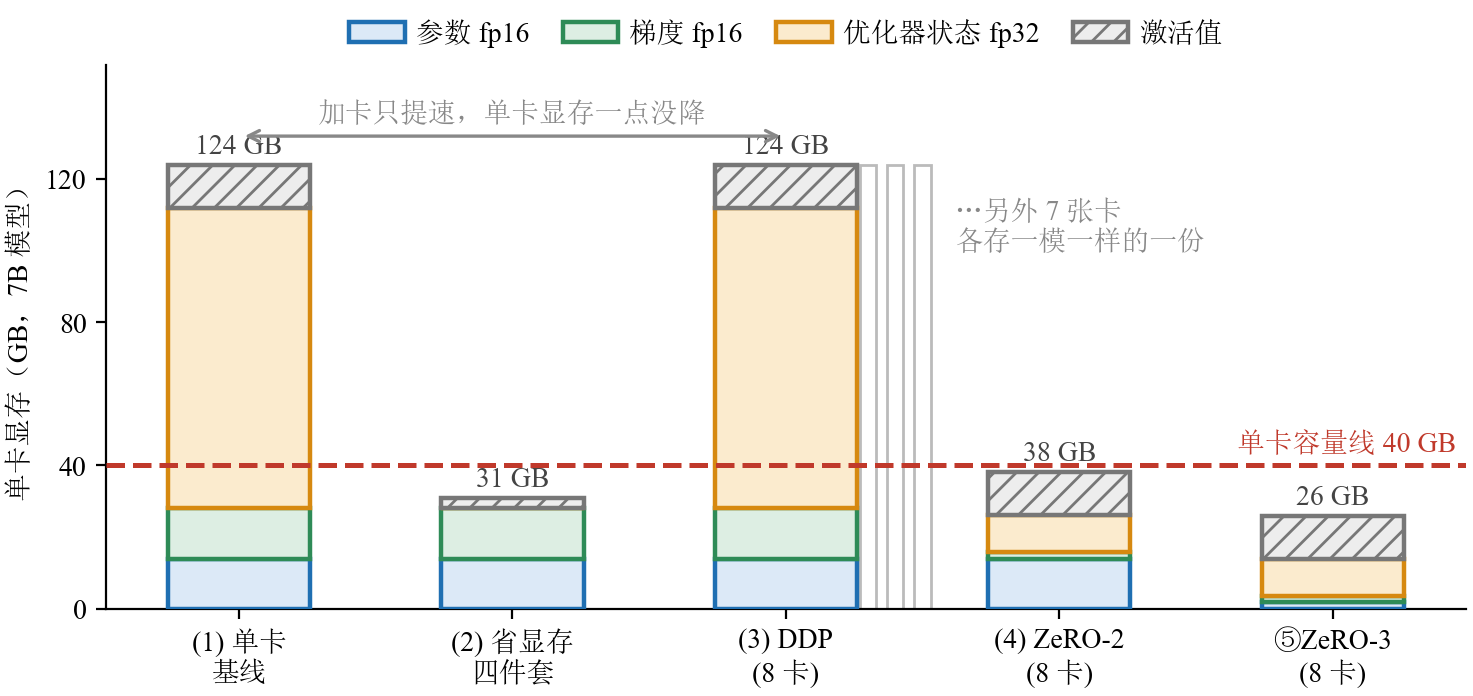
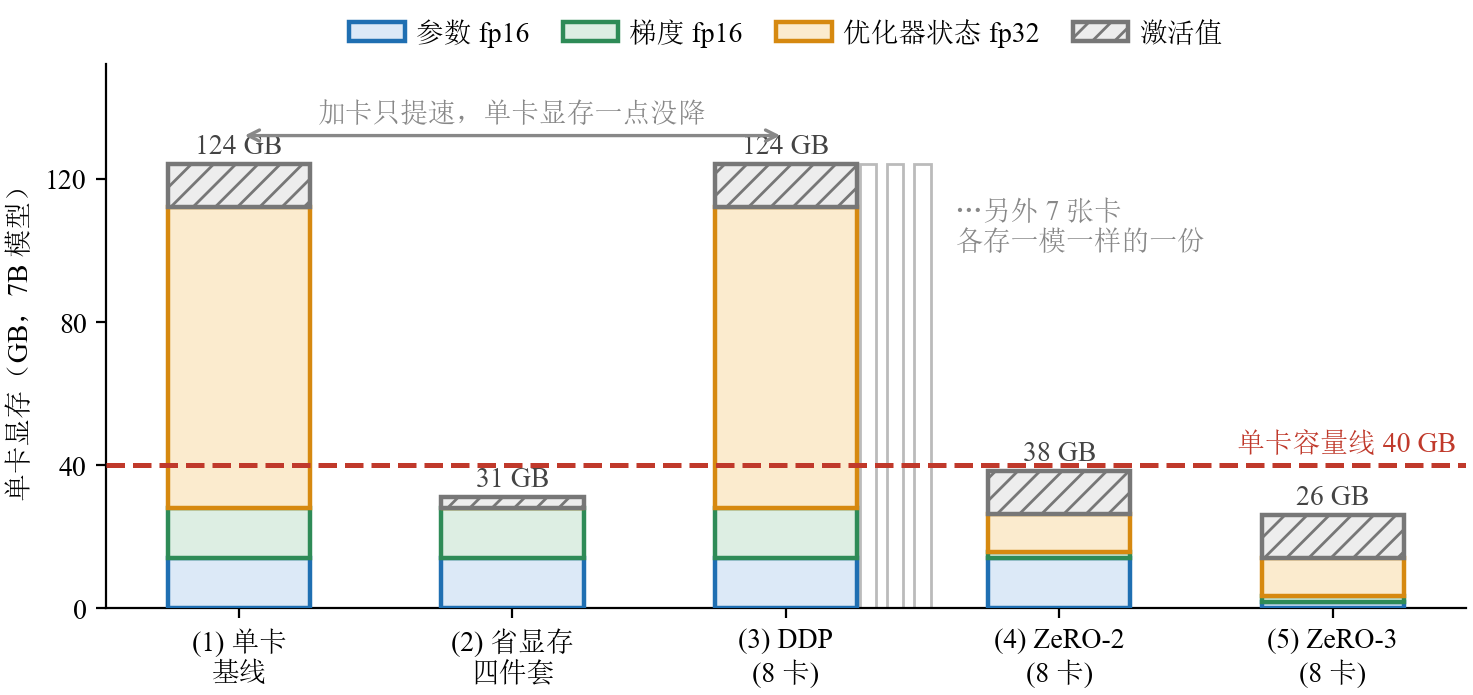
fix(figures): 逐张核对图上数字与正文，修圈码不一致
核对了 29 张说明图里所有硬编码的数字，与正文逐条比对：

查出并修的：
- vram_under_each_strategy 残留一个圈码 ⑤ZeRO-3（其余四个此前已改成 (1)-(4)），
  按 bd xb-9nb：Fandol 渲不出圈码，PDF 里是豆腐
- 图上编号改成 (1)(2)… 后，正文图注仍写 ①②…，图文对不上号。同步改了
  讲9 四处、讲12 十一处、讲16 四处（讲18 不在本单范围，未动）

逐条验算无误、未改的：
- action_tokenization：q1=-0.20、q99=0.30、a=0.05 →(0.05+0.20)/0.50×256=128 格 ✓
- chunking_vs_ensemble：m=0.01 时 exp(-mi) 归一化 = 0.254/0.251/0.249/0.246 ✓
- discount_horizon：γ=0.99 半衰期 log0.5/log0.99=69 步、有效视野 100 步；
  γ=0.9→10 步 0.2 秒、γ=0.999→1000 步 20 秒 @50Hz ✓
- vram：单卡 124、四件套 31、DDP 124、ZeRO-2 38、ZeRO-3 26 GB，与 4.4.6
  表的 Stage2 (2+(2+K)/N)Ψ、Stage3 (4+K)Ψ/N 口径一致（含 12 GB 激活）✓
- cartpole：±2.4、12°=0.2094 rad≈0.21 ✓
- record_loop：30 Hz→1/30=33.3 ms ✓
- act_step3_dataflow：480×640→15×20、300 token、4 层 encoder/1 层 decoder ✓

diff --git a/assets/figures/render_diagrams.py b/assets/figures/render_diagrams.py
@@ -1661,7 +1661,7 @@ def vram_under_each_strategy():
         ("(2) 省显存\n四件套", 14, 14, 0, 3),
         ("(3) DDP\n(8 卡)", 14, 14, 84, 12),
         ("(4) ZeRO-2\n(8 卡)", 14, 14 / n, 84 / n, 12),
-        ("⑤ZeRO-3\n(8 卡)", 14 / n, 14 / n, 84 / n, 12),
+        ("(5) ZeRO-3\n(8 卡)", 14 / n, 14 / n, 84 / n, 12),
     ]
     segs = [("参数 fp16", BLUE), ("梯度 fp16", GREEN), ("优化器状态 fp32", ORANGE),
             ("激活值", GREY)]

diff --git a/docs/part3-end-to-end/12-VLA微调实战.md b/docs/part3-end-to-end/12-VLA微调实战.md
@@ -2110,9 +2110,9 @@ accelerate launch --num_processes=2 $(which lerobot-train) \
 
 这四步的顺序不是随便排的：每往下一步，工程复杂度都要上一个台阶，所以能在上一步停住就别往下走。
 
-![图：一根 7B 模型的单卡显存柱，在五种方案下怎么变。柱子按 4.1.2 节的四类吃货分段：参数 fp16（蓝）、梯度 fp16（绿）、优化器状态 fp32（橙）、激活值（斜纹灰）；红色虚线是标着 40 GB 的单卡容量线。①单卡基线 124 GB，高高在线上；②开省显存四件套后橙色的优化器状态整段消失（搬到卡外）、斜纹的激活段被梯度检查点压扁，落到 31 GB；③DDP 那根柱子仍标着 124 GB，一条双向箭头从 ① 拉到 ③、上面写着"加卡只提速，单卡显存一点没降"，右侧几根灰柱注着"另外 7 张卡各存一模一样的一份"；④ZeRO-2 把梯度段和优化器段各切成 1/8，降到 38 GB；⑤ZeRO-3 把三段全部切成 1/8，降到 26 GB。图下一行注明：斜纹那段是激活值，随批量与序列长度变，图上只画一个示意高度，其余三段按 16 字节/参数精确折算（本书自绘；分片按 8 卡算，与 4.4.6 节表里的公式一致）](../../assets/figures/lecture12/ref/fig12-4-vram-under-each-strategy.png){width=100%}
+![图：一根 7B 模型的单卡显存柱，在五种方案下怎么变。柱子按 4.1.2 节的四类吃货分段：参数 fp16（蓝）、梯度 fp16（绿）、优化器状态 fp32（橙）、激活值（斜纹灰）；红色虚线是标着 40 GB 的单卡容量线。(1)单卡基线 124 GB，高高在线上；(2)开省显存四件套后橙色的优化器状态整段消失（搬到卡外）、斜纹的激活段被梯度检查点压扁，落到 31 GB；(3)DDP 那根柱子仍标着 124 GB，一条双向箭头从 (1) 拉到 (3)、上面写着"加卡只提速，单卡显存一点没降"，右侧几根灰柱注着"另外 7 张卡各存一模一样的一份"；(4)ZeRO-2 把梯度段和优化器段各切成 1/8，降到 38 GB；(5)ZeRO-3 把三段全部切成 1/8，降到 26 GB。图下一行注明：斜纹那段是激活值，随批量与序列长度变，图上只画一个示意高度，其余三段按 16 字节/参数精确折算（本书自绘；分片按 8 卡算，与 4.4.6 节表里的公式一致）](../../assets/figures/lecture12/ref/fig12-4-vram-under-each-strategy.png){width=100%}
 
-图上有两处正好解释了这条决策线为什么是这个顺序。**第一处是 ③ 那根柱子**：它和 ① 一模一样高，因为 DDP 只是把数据分给多张卡，每张卡仍然要完整地放下参数、梯度和优化器状态——所以第 1 步只解决"慢"，不解决"放不下"，单卡放不下时加多少张卡都没用。**第二处是 ② 和 ④ 的高低**：省显存四件套（31 GB）比 ZeRO-2（38 GB）还低，而且不需要多卡、不增加通信。这就是第 2 步要排在第 3 步前面的原因——最贵的那一段（优化器状态 84 GB）用 offload 直接搬走，比切成 8 份还划算。真正非分片不可的，是四件套之后仍然顶破容量线的那些情况。
+图上有两处正好解释了这条决策线为什么是这个顺序。**第一处是 (3) 那根柱子**：它和 (1) 一模一样高，因为 DDP 只是把数据分给多张卡，每张卡仍然要完整地放下参数、梯度和优化器状态——所以第 1 步只解决"慢"，不解决"放不下"，单卡放不下时加多少张卡都没用。**第二处是 (2) 和 (4) 的高低**：省显存四件套（31 GB）比 ZeRO-2（38 GB）还低，而且不需要多卡、不增加通信。这就是第 2 步要排在第 3 步前面的原因——最贵的那一段（优化器状态 84 GB）用 offload 直接搬走，比切成 8 份还划算。真正非分片不可的，是四件套之后仍然顶破容量线的那些情况。
 
 对 VLA 当前这个量级（通常 $\le$ 7B），绝大多数情况走到第 1~3 步就解决了，**第 4 步基本用不到**。本节的双卡 + LeRobot 实战，落在的正是第 1 步（DDP 提速）这一档——也是最常用、最该先掌握的一档。
 

diff --git a/docs/part4-reinforcement-learning/16-真机强化学习.md b/docs/part4-reinforcement-learning/16-真机强化学习.md
@@ -167,7 +167,7 @@ $$y = r + \gamma \,(1 - d)\, Q(s', a'), \qquad a' \sim \pi(\cdot \mid s')$$
 - **奖励与终止**：每活一步得 1 分。杆偏离竖直超过约 12°（弧度约 0.21）、或小车滑出轨道 ±2.4，回合立即结束；撑满 500 步则回合正常结束，拿满分 500。所以"回合回报"和"杆立住了几步"是同一个数。
 - **什么算成功**：单回合 500 分叫**满分**，但真正的门槛是**稳定拿满分**——后面会看到，"偶尔打出一次 500"和"最后 50 个回合大多是 500"是两回事。
 
-![CartPole 的两道终止线与那个反直觉的动作方向。左半把上面四条要素画进同一个场景：红色虚线是轨道两端的 ±2.4，越过就出界；橙色扇形是竖直方向左右各 12°（≈0.21 rad）的可用范围，杆尖越出扇形回合当场结束——两道线卡的不是同一件事，一道管车能滑多远、一道管杆能歪多少。车顶那个白心圆是**自由转轴**，没有电机，杆只受重力和车身加速度摆布。①②③④ 分别标出四个观测量各自对应的物理量。右半是那一下反直觉的动作：杆已经倒到 11°，正确的做法是把车也**往右**推，让车追到杆的正下方，杆才回正；往左"顶回去"只会让它倒得更快。动作只有 0 / 1 两档，没有"不动"这一档](../../assets/figures/lecture16/ref/fig16-cartpole-task.png){width=100%}
+![CartPole 的两道终止线与那个反直觉的动作方向。左半把上面四条要素画进同一个场景：红色虚线是轨道两端的 ±2.4，越过就出界；橙色扇形是竖直方向左右各 12°（≈0.21 rad）的可用范围，杆尖越出扇形回合当场结束——两道线卡的不是同一件事，一道管车能滑多远、一道管杆能歪多少。车顶那个白心圆是**自由转轴**，没有电机，杆只受重力和车身加速度摆布。(1)(2)(3)(4) 分别标出四个观测量各自对应的物理量。右半是那一下反直觉的动作：杆已经倒到 11°，正确的做法是把车也**往右**推，让车追到杆的正下方，杆才回正；往左"顶回去"只会让它倒得更快。动作只有 0 / 1 两档，没有"不动"这一档](../../assets/figures/lecture16/ref/fig16-cartpole-task.png){width=100%}
 
 选它当入门例子有三个具体理由：状态只有四维，**表格法勉强还做得动**，这才谈得上和 DQN 同台对照（换成机械臂，表格法连起跑线都站不上）；纯 CPU 几分钟就能训完一轮，不需要仿真器也不需要机器人；而它的观测是连续量、动作是离散档，恰好卡在"必须分桶"和"可以用网络"的分界线上——这一节要讲的就是这条线。
 

diff --git a/docs/part3-end-to-end/09-操作数据闭环.md b/docs/part3-end-to-end/09-操作数据闭环.md
@@ -288,7 +288,7 @@ LeRobot 是 HuggingFace 推出的**端到端具身智能开源框架**（Apache-
 
 把这个闭环落到代码里，LeRobot 是一套**自上而下的分层架构**——每一层只管自己的事，上层调用下层的抽象，所以换机器人只动底层、换算法只动策略层：
 
-![LeRobot 的六层结构自上而下排开，层与层之间那些朝下的小箭头是调用方向——只朝下，不朝上。绿色高亮的两层是本讲要动的；右侧那条红色回环标出 `lerobot-record` 实际穿过哪几层：①起于命令 → ②读主臂动作 → ③从臂执行、相机出图 → ④拼成一帧写进数据集（本书自绘，层名与目录名按 LeRobot v0.5.1 源码整理）](../../assets/figures/lecture09/ref/fig09-3-lerobot-layers.png){width=100%}
+![LeRobot 的六层结构自上而下排开，层与层之间那些朝下的小箭头是调用方向——只朝下，不朝上。绿色高亮的两层是本讲要动的；右侧那条红色回环标出 `lerobot-record` 实际穿过哪几层：(1)起于命令 → (2)读主臂动作 → (3)从臂执行、相机出图 → (4)拼成一帧写进数据集（本书自绘，层名与目录名按 LeRobot v0.5.1 源码整理）](../../assets/figures/lecture09/ref/fig09-3-lerobot-layers.png){width=100%}
 
 从上往下看：**CLI 命令入口层（scripts/）** 提供 `lerobot-record`/`lerobot-train` 等命令，**AI 策略模型层（policies/）** 放 ACT / Diffusion / $\pi_0$（第8讲 4.1 节当黑盒用过的那个策略）/ SmolVLA 等算法，**数据处理管线（processor/ + datasets/）** 管统一数据格式，**实物与仿真抽象层（robots/ 与 envs/）** 分别接真机（SO-100、Unitree G1……）和仿真（LIBERO、MetaWorld……），**遥操作器（teleoperators/）** 提供主臂 / 手柄等输入，最底下是**基础设施层（configs/ + utils/ + transport/）**。换机器人只动 `robots/`、换算法只动 `policies/`，彼此不牵连。
 
